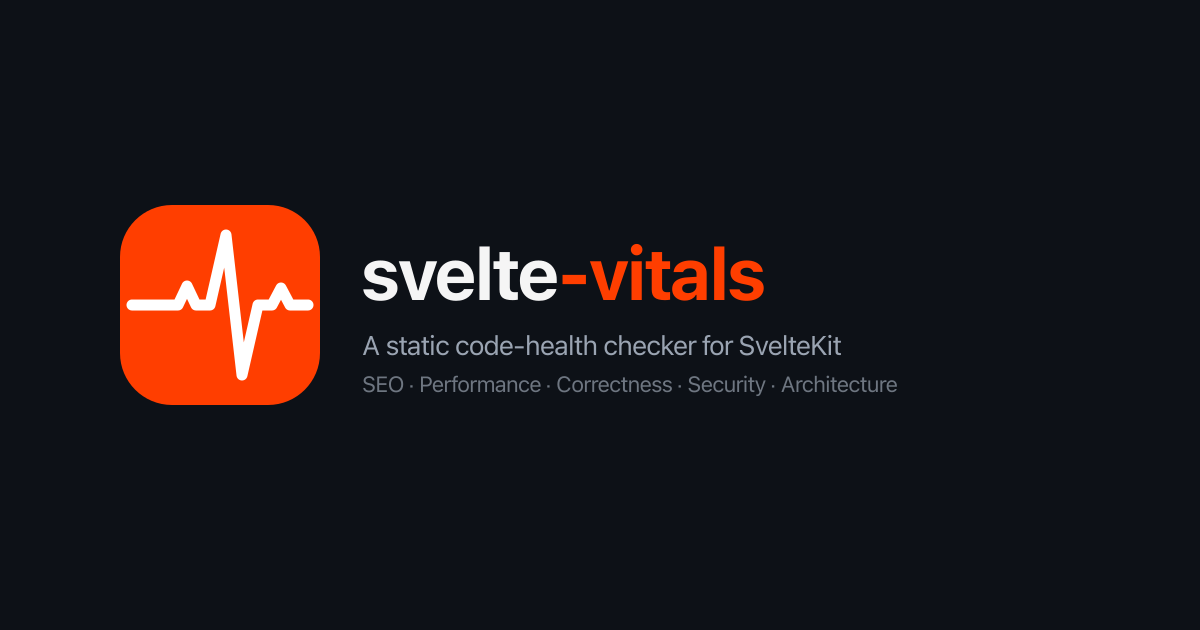
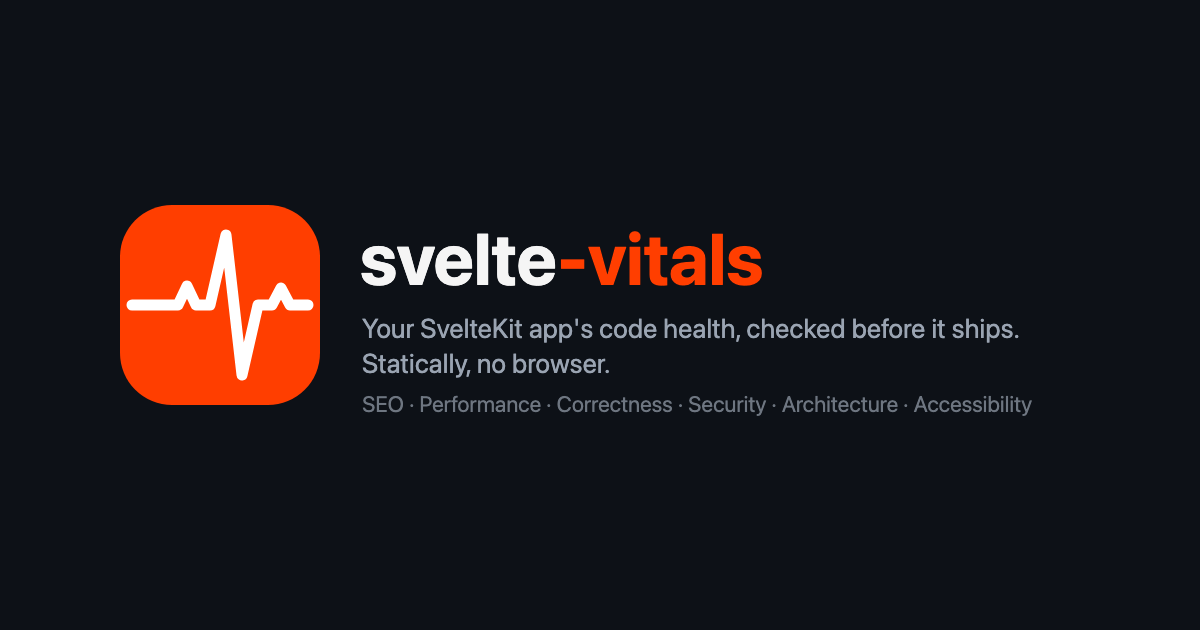
docs: simplify the tagline and drop the Web Vitals disclaimer (#519)
* docs: simplify the tagline across README and the docs site

The old tagline carried four jobs at once: what the tool is, the six
category names, the no-browser claim, and an apology for the package
name. Lead with the promise instead and let the categories live in the
prose that already lists them.

"Statically" alone is ambiguous in this space — it reads as "targets
static sites" as easily as "reads your source" — so "no browser" stays
as the two-word disambiguation.

* docs: drop the "not a runtime Web Vitals reporter" disclaimer

Leading with what the tool is not spends the first line of every surface
apologising for the package name. The categories say what it does; a
reader who expected a runtime reporter finds out in one run.

* docs: carry the new tagline into the social banner, drop the source claim

The banner is the third tagline surface and still carried the old line,
along with a category list that predates Accessibility.

"all read from your source code" was untrue for the project as a whole:
the Vite plugin's build mode reads prerendered HTML, not source. The
category list alone makes no claim about the input.

---------

Changed region(s): [[0.2775, 0.5127, 0.8633, 0.6635], [0.2775, 0.3619, 0.6475, 0.4825]]

diff --git a/docs/blume.config.ts b/docs/blume.config.ts
@@ -1,7 +1,7 @@
 import { defineConfig } from 'blume';
 
 const description =
-  'A deterministic SvelteKit code-health scanner — SEO, performance, correctness, security, architecture, accessibility.';
+  "Your SvelteKit app's code health, checked before it ships. Statically, no browser — SEO, performance, correctness, security, architecture, accessibility.";
 
 export default defineConfig({
   title: 'svelte-vitals',

diff --git a/packages/cli/README.md b/packages/cli/README.md
@@ -3,8 +3,8 @@
 [![npm](https://img.shields.io/npm/v/svelte-vitals)](https://www.npmjs.com/package/svelte-vitals)
 [![MIT](https://img.shields.io/npm/l/svelte-vitals)](https://opensource.org/licenses/MIT)
 
-> **A static SvelteKit code-health scanner — not a runtime Web Vitals reporter.**
-> Diagnose your project's SEO, Performance, Correctness, Security, Architecture, and Accessibility health by statically analyzing your source code, before it ships. No browser, no headless Chrome.
+> **Your SvelteKit app's code health, checked before it ships. Statically, no browser.**
+> Scores SEO, Performance, Correctness, Security, Architecture, and Accessibility by reading your source code.
 >
 > **ESM-only** (Node 22.13+). Ships ES modules only; `require()` is unsupported by design.
 

diff --git a/README.md b/README.md
@@ -12,7 +12,8 @@
   <a href="https://opensource.org/licenses/MIT"><img src="https://img.shields.io/npm/l/svelte-vitals" alt="MIT"></a>
 </p>
 
-<p align="center">A static code-health checker for SvelteKit — SEO, Performance, Correctness, Security, Architecture, and Accessibility, checked before you deploy. No browser or headless Chrome required. (Not a runtime Web Vitals reporter, despite the name.)</p>
+<p align="center">Your SvelteKit app's code health, checked before it ships. Statically, no browser.</p>
+<p align="center"><sub>SEO · Performance · Correctness · Security · Architecture · Accessibility</sub></p>
 
 ```bash
 npx svelte-vitals@latest

diff --git a/.changeset/plenty-dryers-hunt.md b/.changeset/plenty-dryers-hunt.md
@@ -1,0 +1,7 @@
+---
+'svelte-vitals': patch
+---
+
+Drop the "not a runtime Web Vitals reporter" clause from the registry-visible package description.
+The disclaimer led with what the tool is not, which is a weak first line in a search result. The
+description now states the six categories it scores and nothing else. No behavior change.
